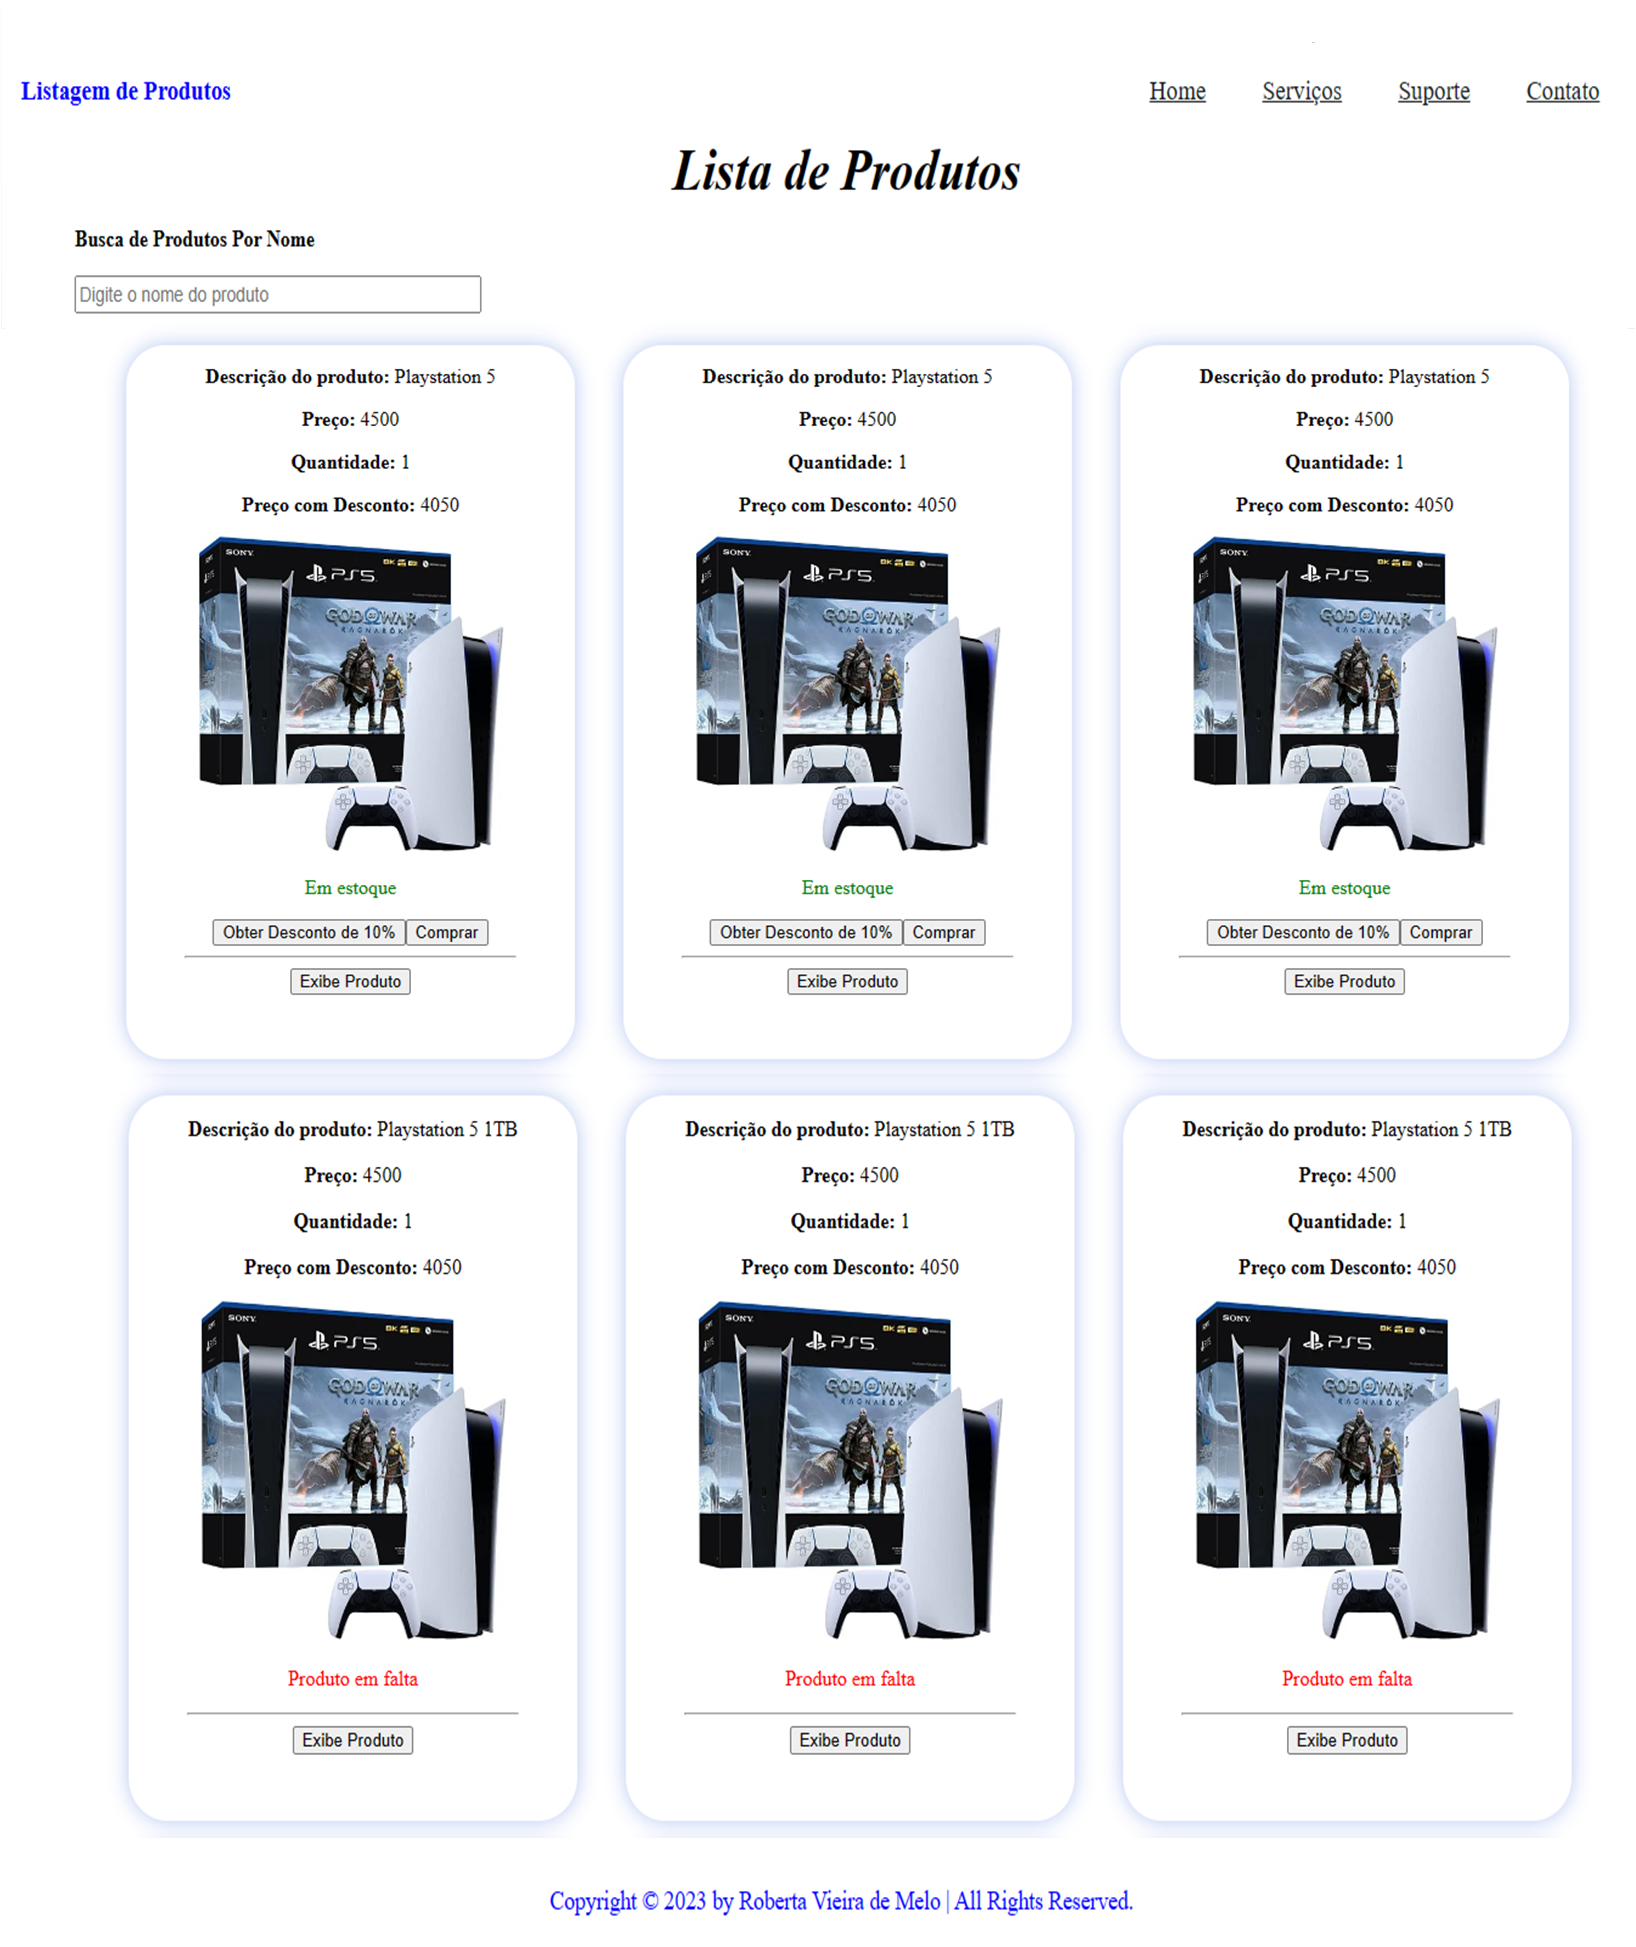
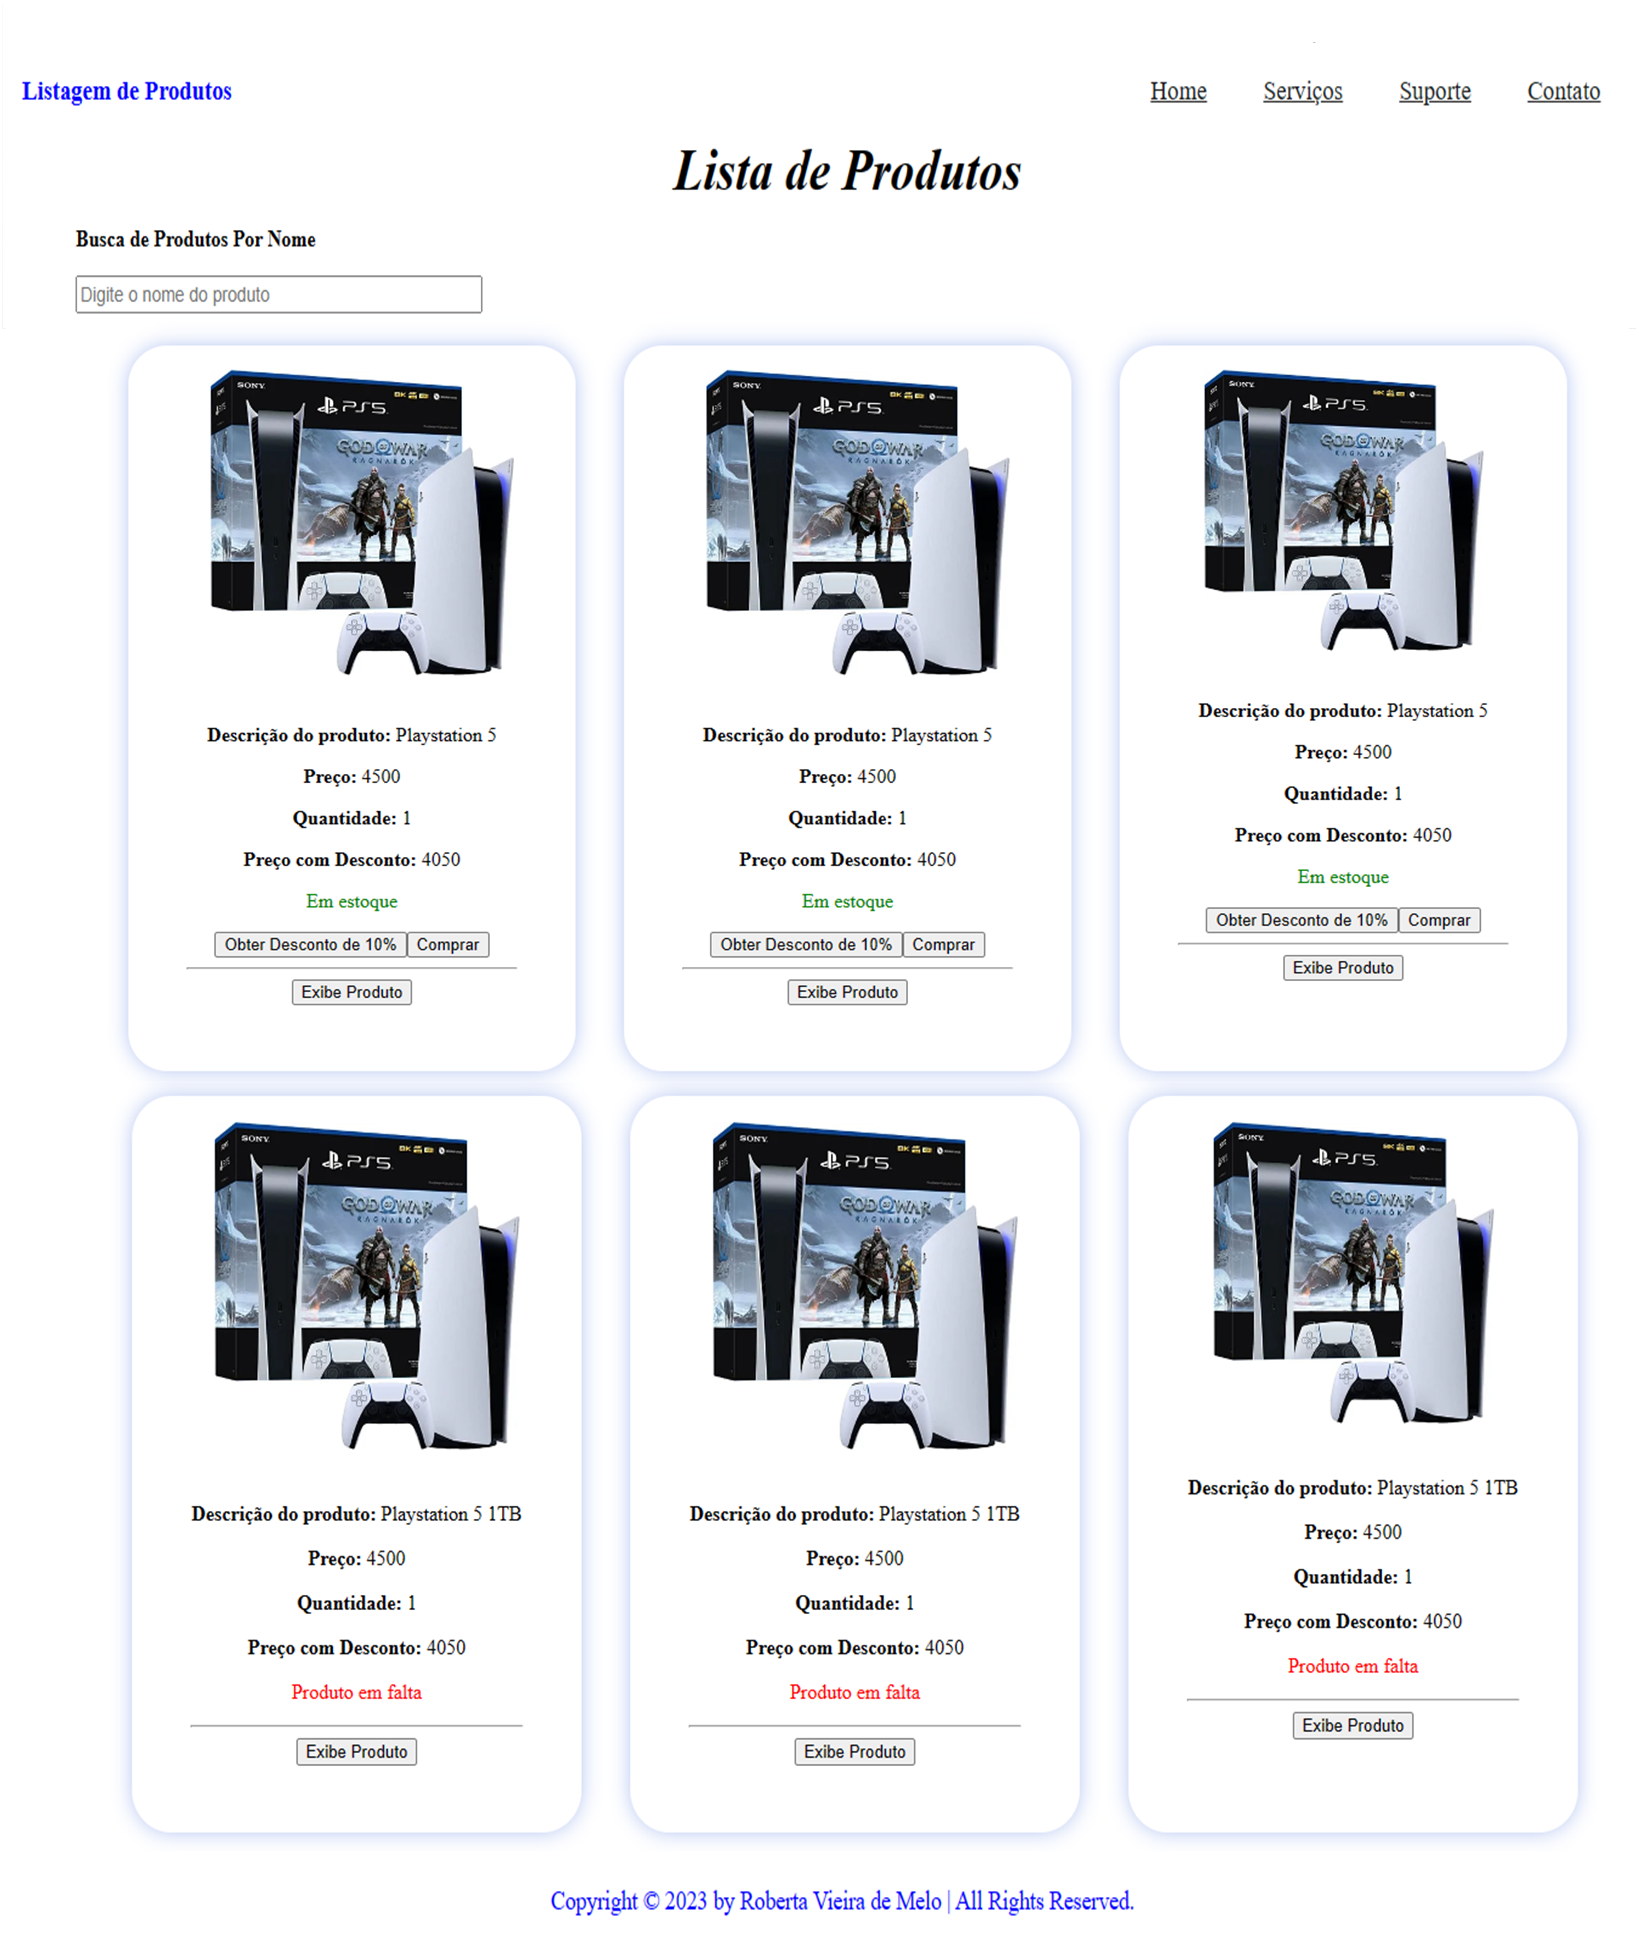
README

diff --git a/angular/exercicio-semana-4/src/app/features/sell/components/products/products.component.html b/angular/exercicio-semana-4/src/app/features/sell/components/products/products.component.html
@@ -12,6 +12,7 @@
   <div *ngFor="let produto of produtos" class="produto-container">
     <div class="produto-box">
       <div>
+        <img src="{{ produto.imagem }}" width="250px" height="250px" alt="" />
         <p (click)="clicouTag()">
           <strong>Descrição do produto:</strong>
           {{ produto.descricao }}
@@ -28,8 +29,6 @@
           <strong>Preço com Desconto:</strong>
           {{ precoComDesconto(produto.preco) }}
         </p>
-        <img src="{{ produto.imagem }}" width="250px" height="250px" alt="" />
-
         <p
           [ngClass]="{
             'em-estoque': produto.disponivel,
@@ -39,9 +38,23 @@
           {{ produto.disponivel ? "Em estoque" : "Produto em falta" }}
         </p>
 
-        <button *ngIf="produto.disponivel ? exibeProdutosSimNao : !exibeProdutosSimNao" (click)="obterPrecoDesconto()">Obter Desconto de 10%</button>
+        <button
+          *ngIf="
+            produto.disponivel ? exibeProdutosSimNao : !exibeProdutosSimNao
+          "
+          (click)="obterPrecoDesconto()"
+        >
+          Obter Desconto de 10%
+        </button>
 
-        <button *ngIf="produto.disponivel ? exibeProdutosSimNao : !exibeProdutosSimNao" (click)="comprar()">Comprar</button>
+        <button
+          *ngIf="
+            produto.disponivel ? exibeProdutosSimNao : !exibeProdutosSimNao
+          "
+          (click)="comprar()"
+        >
+          Comprar
+        </button>
         <hr />
         <button (click)="exibeProdutosSimNao()">Exibe Produto</button>
       </div>
@@ -49,7 +62,8 @@
 
     <div class="produto-box">
       <div>
-        <p>
+        <img src="{{ produto.imagem }}" width="250px" height="250px" alt="" />
+        <p (click)="clicouTag()">
           <strong>Descrição do produto:</strong>
           {{ produto.descricao }}
         </p>
@@ -65,7 +79,6 @@
           <strong>Preço com Desconto:</strong>
           {{ precoComDesconto(produto.preco) }}
         </p>
-        <img src="{{ produto.imagem }}" width="250px" height="250px" alt="" />
 
         <p
           [ngClass]="{
@@ -76,9 +89,23 @@
           {{ produto.disponivel ? "Em estoque" : "Produto em falta" }}
         </p>
 
-        <button *ngIf="produto.disponivel ? exibeProdutosSimNao : !exibeProdutosSimNao" (click)="obterPrecoDesconto()">Obter Desconto de 10%</button>
+        <button
+          *ngIf="
+            produto.disponivel ? exibeProdutosSimNao : !exibeProdutosSimNao
+          "
+          (click)="obterPrecoDesconto()"
+        >
+          Obter Desconto de 10%
+        </button>
 
-        <button *ngIf="produto.disponivel ? exibeProdutosSimNao : !exibeProdutosSimNao" (click)="comprar()">Comprar</button>
+        <button
+          *ngIf="
+            produto.disponivel ? exibeProdutosSimNao : !exibeProdutosSimNao
+          "
+          (click)="comprar()"
+        >
+          Comprar
+        </button>
         <hr />
         <button (click)="exibeProdutosSimNao()">Exibe Produto</button>
       </div>
@@ -86,7 +113,8 @@
 
     <div class="produto-box">
       <div>
-        <p>
+        <img src="{{ produto.imagem }}" width="230px" height="230px" alt="" />
+        <p (click)="clicouTag()">
           <strong>Descrição do produto:</strong>
           {{ produto.descricao }}
         </p>
@@ -94,12 +122,14 @@
           <strong>Preço:</strong>
           {{ produto.preco }}
         </p>
-        <p><strong>Quantidade:</strong> {{ produto.quantidade }}</p>
+        <p>
+          <strong>Quantidade:</strong>
+          {{ produto.quantidade }}
+        </p>
         <p>
           <strong>Preço com Desconto:</strong>
           {{ precoComDesconto(produto.preco) }}
         </p>
-        <img src="{{ produto.imagem }}" width="250px" height="250px" alt="" />
 
         <p
           [ngClass]="{
@@ -110,9 +140,23 @@
           {{ produto.disponivel ? "Em estoque" : "Produto em falta" }}
         </p>
 
-        <button *ngIf="produto.disponivel ? exibeProdutosSimNao : !exibeProdutosSimNao" (click)="obterPrecoDesconto()">Obter Desconto de 10%</button>
+        <button
+          *ngIf="
+            produto.disponivel ? exibeProdutosSimNao : !exibeProdutosSimNao
+          "
+          (click)="obterPrecoDesconto()"
+        >
+          Obter Desconto de 10%
+        </button>
 
-        <button *ngIf="produto.disponivel ? exibeProdutosSimNao : !exibeProdutosSimNao" (click)="comprar()">Comprar</button>
+        <button
+          *ngIf="
+            produto.disponivel ? exibeProdutosSimNao : !exibeProdutosSimNao
+          "
+          (click)="comprar()"
+        >
+          Comprar
+        </button>
         <hr />
         <button (click)="exibeProdutosSimNao()">Exibe Produto</button>
       </div>

diff --git a/angular/exercicio-semana-4/src/app/features/sell/components/products/products.component.ts b/angular/exercicio-semana-4/src/app/features/sell/components/products/products.component.ts
@@ -8,7 +8,6 @@ import { Product } from '../../models/product.model';
 })
 export class ProductsComponent implements OnInit {
   titulo = 'Lista de Produtos';
-  /*subtitulo = "Busca de Produtos Por nome";*/
 
   exibeProduto = true;
 
@@ -37,19 +36,12 @@ export class ProductsComponent implements OnInit {
         'https://cdn.awsli.com.br/600x450/2443/2443989/produto/189093503e1b743af49.jpg',
       disponivel: false,
     },
-    {
-      descricao: 'Playstation 5',
-      preco: 4500,
-      quantidade: 1,
-      imagem:
-        'https://cdn.awsli.com.br/600x450/2443/2443989/produto/189093503e1b743af49.jpg',
-      disponivel: true,
-    },
   ];
   constructor() {}
 
   ngOnInit(): void {
-    console.log('teste');
+    for (const iterator of this.produtos) {
+    }
   }
   precoComDesconto(preco: number) {
     return preco * 0.9;

diff --git a/angular/exercicio-semana-4/src/app/features/sell/components/products/products.component.scss b/angular/exercicio-semana-4/src/app/features/sell/components/products/products.component.scss
@@ -28,18 +28,20 @@
 
 .produto-container .produto-box {
   position: relative;
-
+  flex-direction: column;
   border-radius: 2rem;
   box-shadow: 0 0 1rem rgb(183, 199, 242);
   overflow: hidden;
   display: flex;
 }
+
 h3 {
   font-size: 1rem;
-  //border-bottom: solid;
   margin-top: -50px;
 }
-
+img{
+  margin: 20px;
+}
 .produto-box {
   position: absolute;
   top: 0;
@@ -65,3 +67,4 @@ h3 {
 .falta-estoque {
   color: red;
 }
+

diff --git a/angular/exercicio-semana-4/README.md b/angular/exercicio-semana-4/README.md
@@ -2,5 +2,19 @@
  </h1>
 
 ![imagem](imagem.png)
+## 📝Descrição
+
+As directives (diretivas) em Angular são uma classe js, declarada como @directive. Temos 3 diretivas em Angular:
+
+### Component Directives
+Eles formam a classe principal, com detalhes de como o componente deve ser processado, instanciado e usado em tempo de execução.
+
+### Structural Directives
+Uma diretiva de estrutura lida basicamente com a manipulação dos elementos dom. As diretivas estruturais têm um sinal * antes da diretiva. Por exemplo, ngIf e ngFor .
+
+### Attribute Directives
+As diretivas de atributo tratam de alterar a aparência e o comportamento do elemento dom.
+
+
 
 
